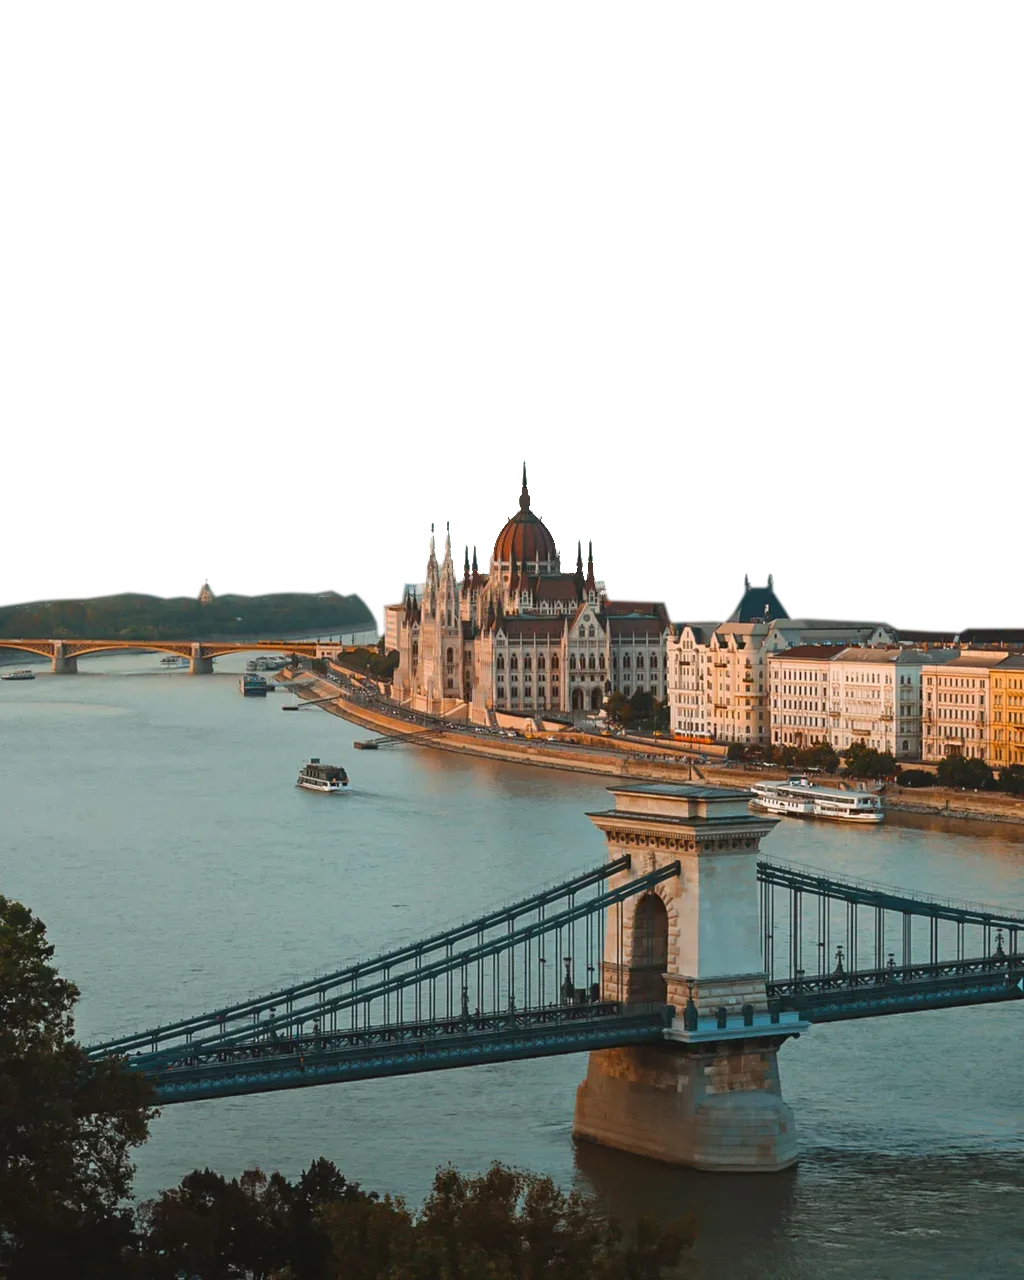
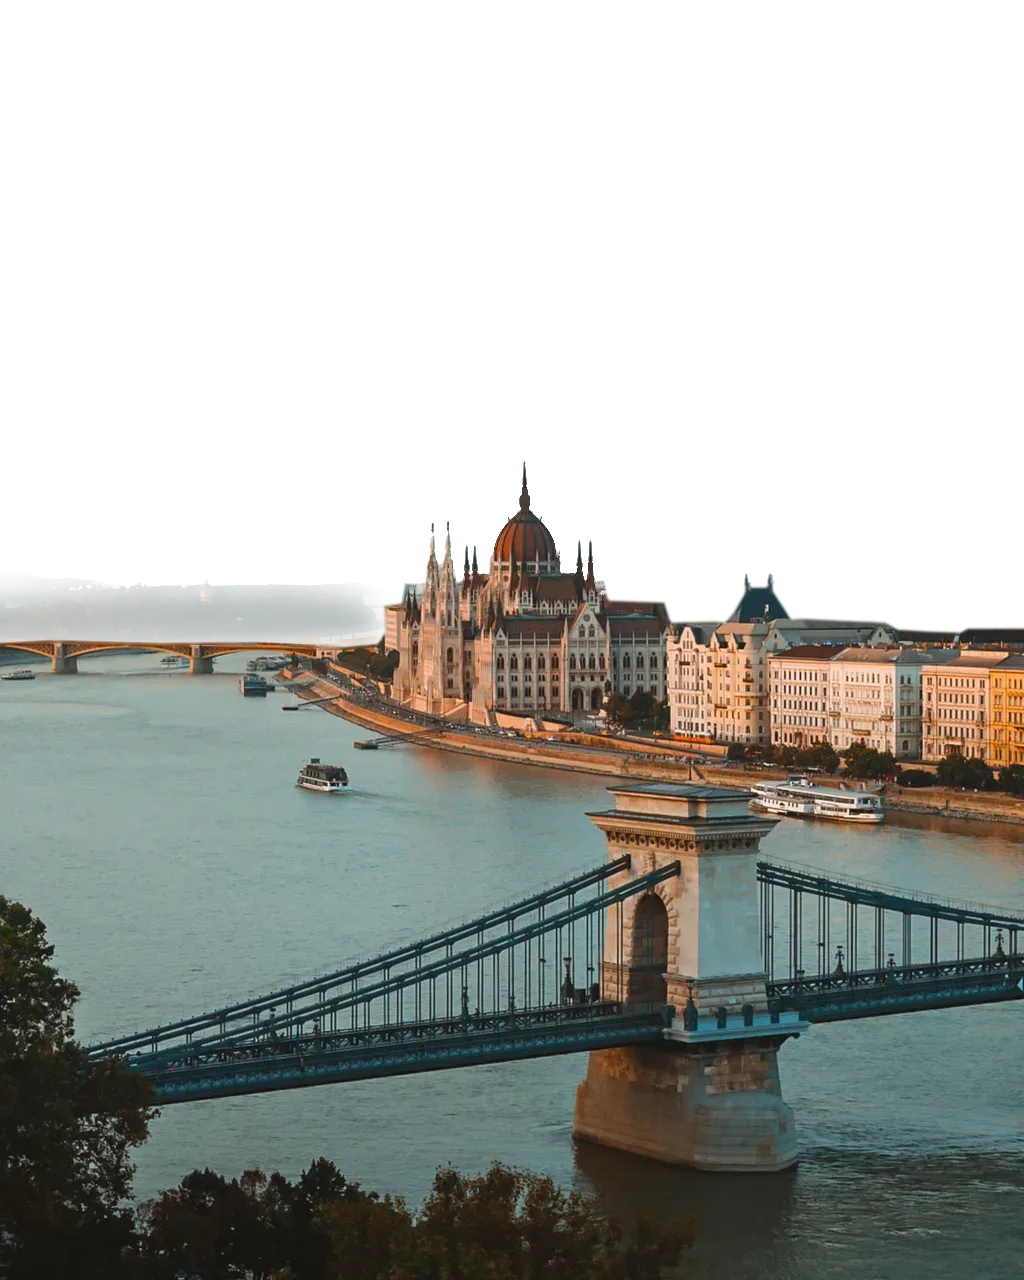
Trip cards: Budapest's left side back in the backdrop, the island only half in the cutout (#771)
Whole in the cutout the misty island stood out hazy against the darkened backdrop; left out it was
too dark. It is now in at 35% with a soft outline.

Changed region(s): [[0.0, 0.4375, 0.375, 0.5312]]

diff --git a/apps/web/scripts/cutout/run.py b/apps/web/scripts/cutout/run.py
@@ -485,7 +485,13 @@ def main():
             h_, w_ = rgb.shape[:2]
             inside = np.zeros((h_, w_), np.uint8)
             cv2.fillPoly(inside, [np.array([[x * w_ * 4, y * h_ * 4] for x, y in cfg["keep"]], np.int32)], 255, lineType=cv2.LINE_AA, shift=2)
+            whole = alpha
             alpha = np.minimum(alpha, cv2.GaussianBlur(inside, (0, 0), cfg.get("feather", 0.8)))
+            if "soft" in cfg:
+                area = np.zeros((h_, w_), np.uint8)
+                cv2.fillPoly(area, [np.array([[x * w_ * 4, y * h_ * 4] for x, y in cfg["soft"]["outline"]], np.int32)], 255, lineType=cv2.LINE_AA, shift=2)
+                half = (cv2.GaussianBlur(area, (0, 0), cfg["soft"]["feather"]) * cfg["soft"]["level"]).astype(np.uint8)
+                alpha = np.maximum(alpha, np.minimum(whole, half))
         if alpha is not None and mode != "rod" and cfg.get("trim", 1):
             fg, alpha = trim_edge(rgb, fg, alpha, cfg.get("trim", 1))
         s = stats(alpha, cfg.get("percentile", 15)) if alpha is not None else None
